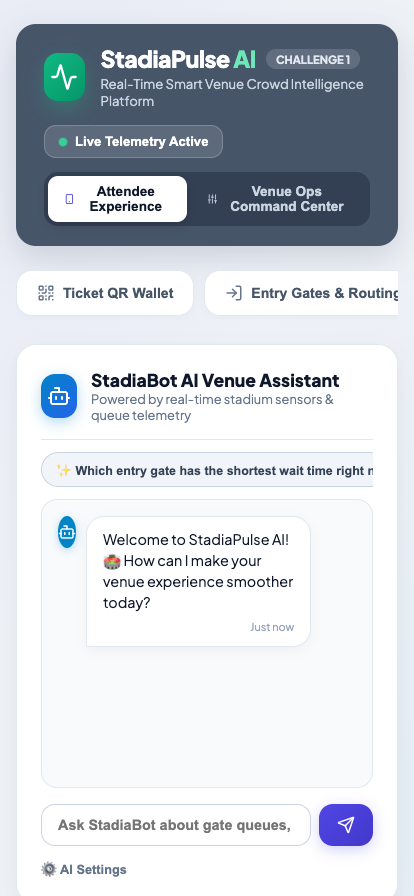
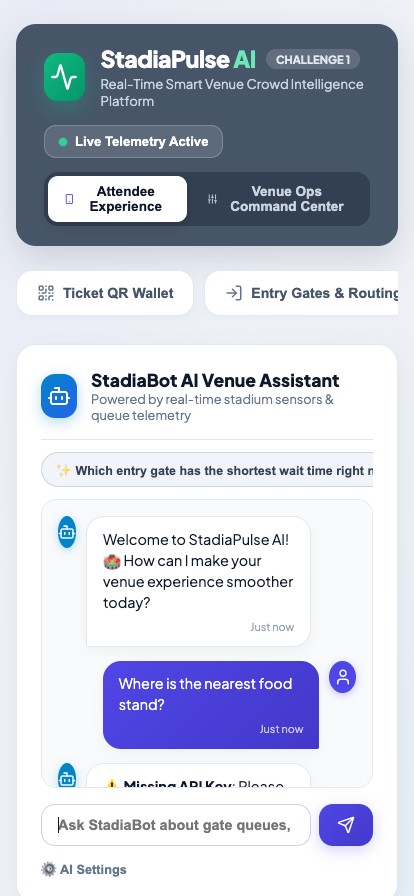
docs: add demo GIF and populated AI chat screenshot

Changed region(s): [[0.2319, 0.7188, 0.8696, 0.8438], [0.1159, 0.8438, 0.2029, 0.9062]]

diff --git a/README.md b/README.md
@@ -12,6 +12,11 @@
 
 ### 📸 Application Previews
 
+#### 🎥 App Walkthrough
+<p align="center">
+  <img src="images/demo.gif" alt="StadiaPulse AI Demo" width="300"/>
+</p>
+
 #### Mobile Attendee Experience
 <p align="center">
   <img src="images/attendee_ticket.png" alt="Digital Ticket QR Wallet" width="300"/>
